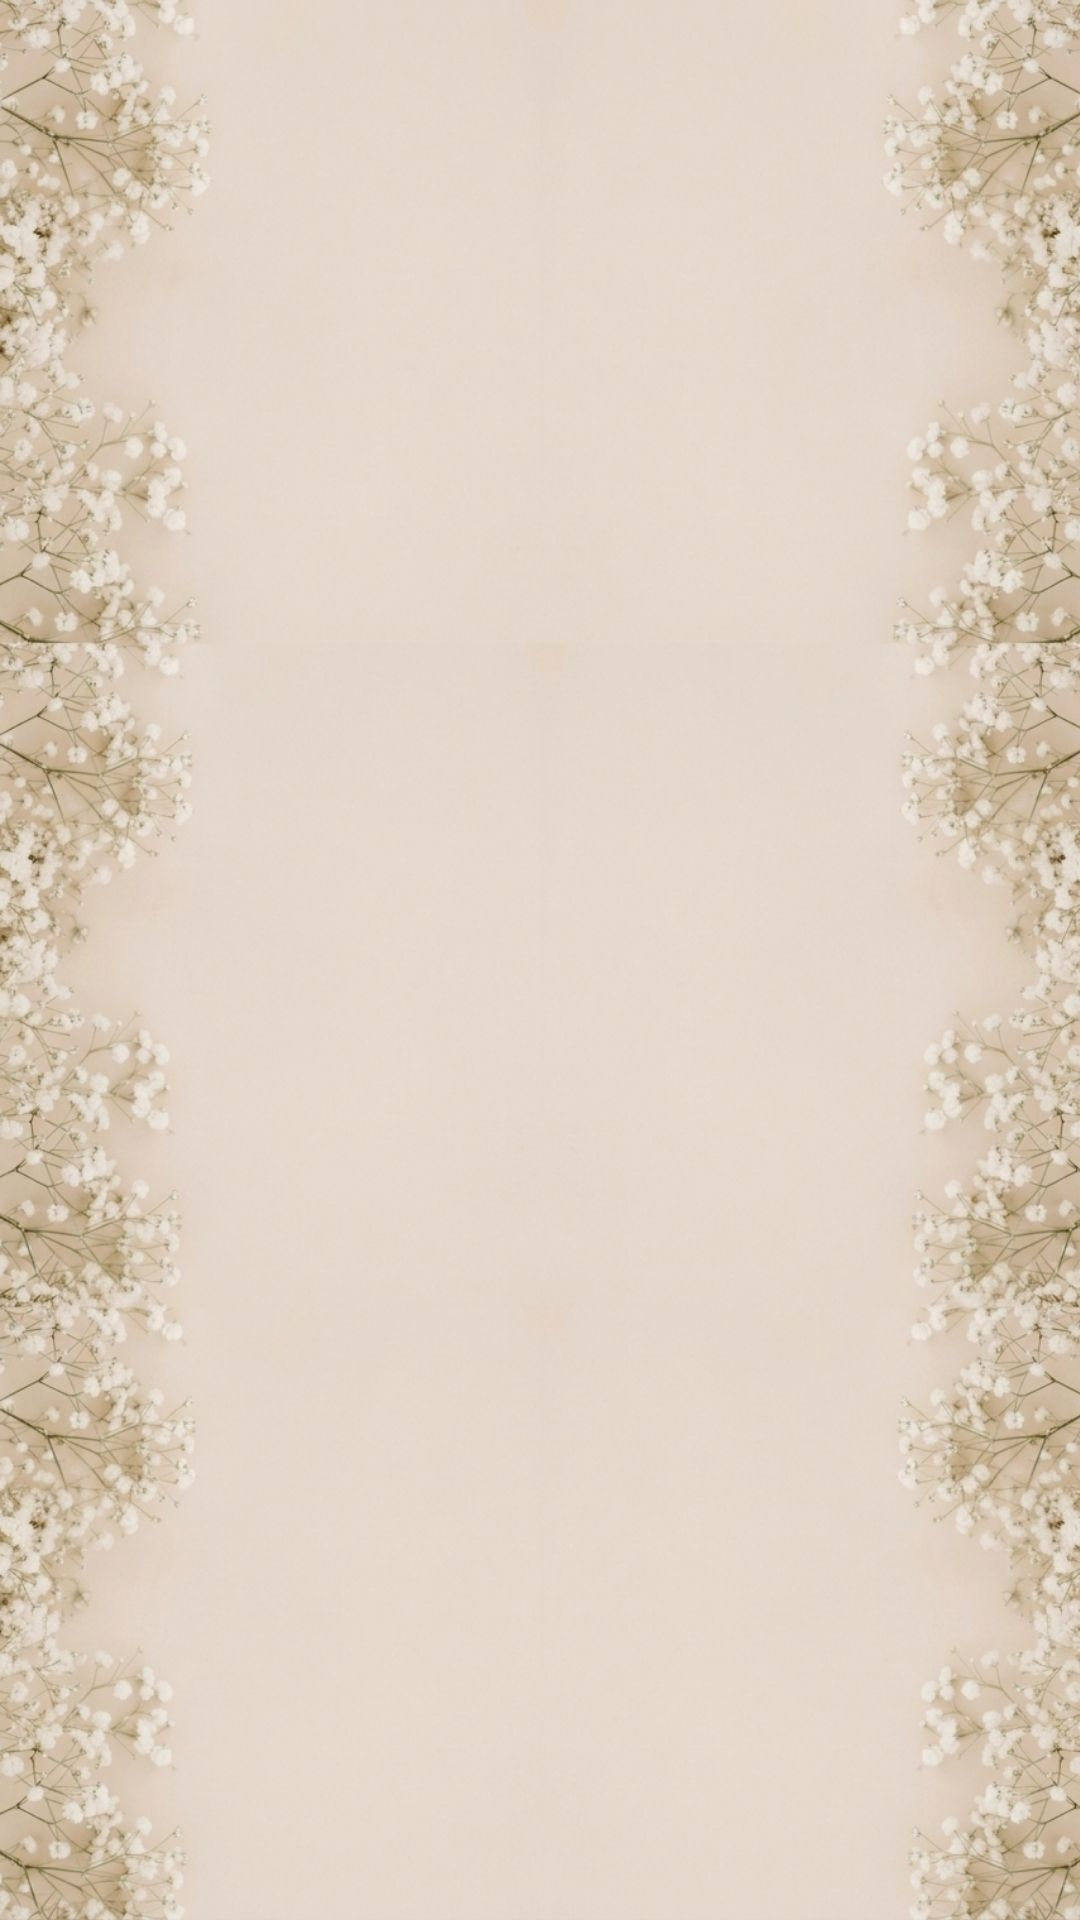
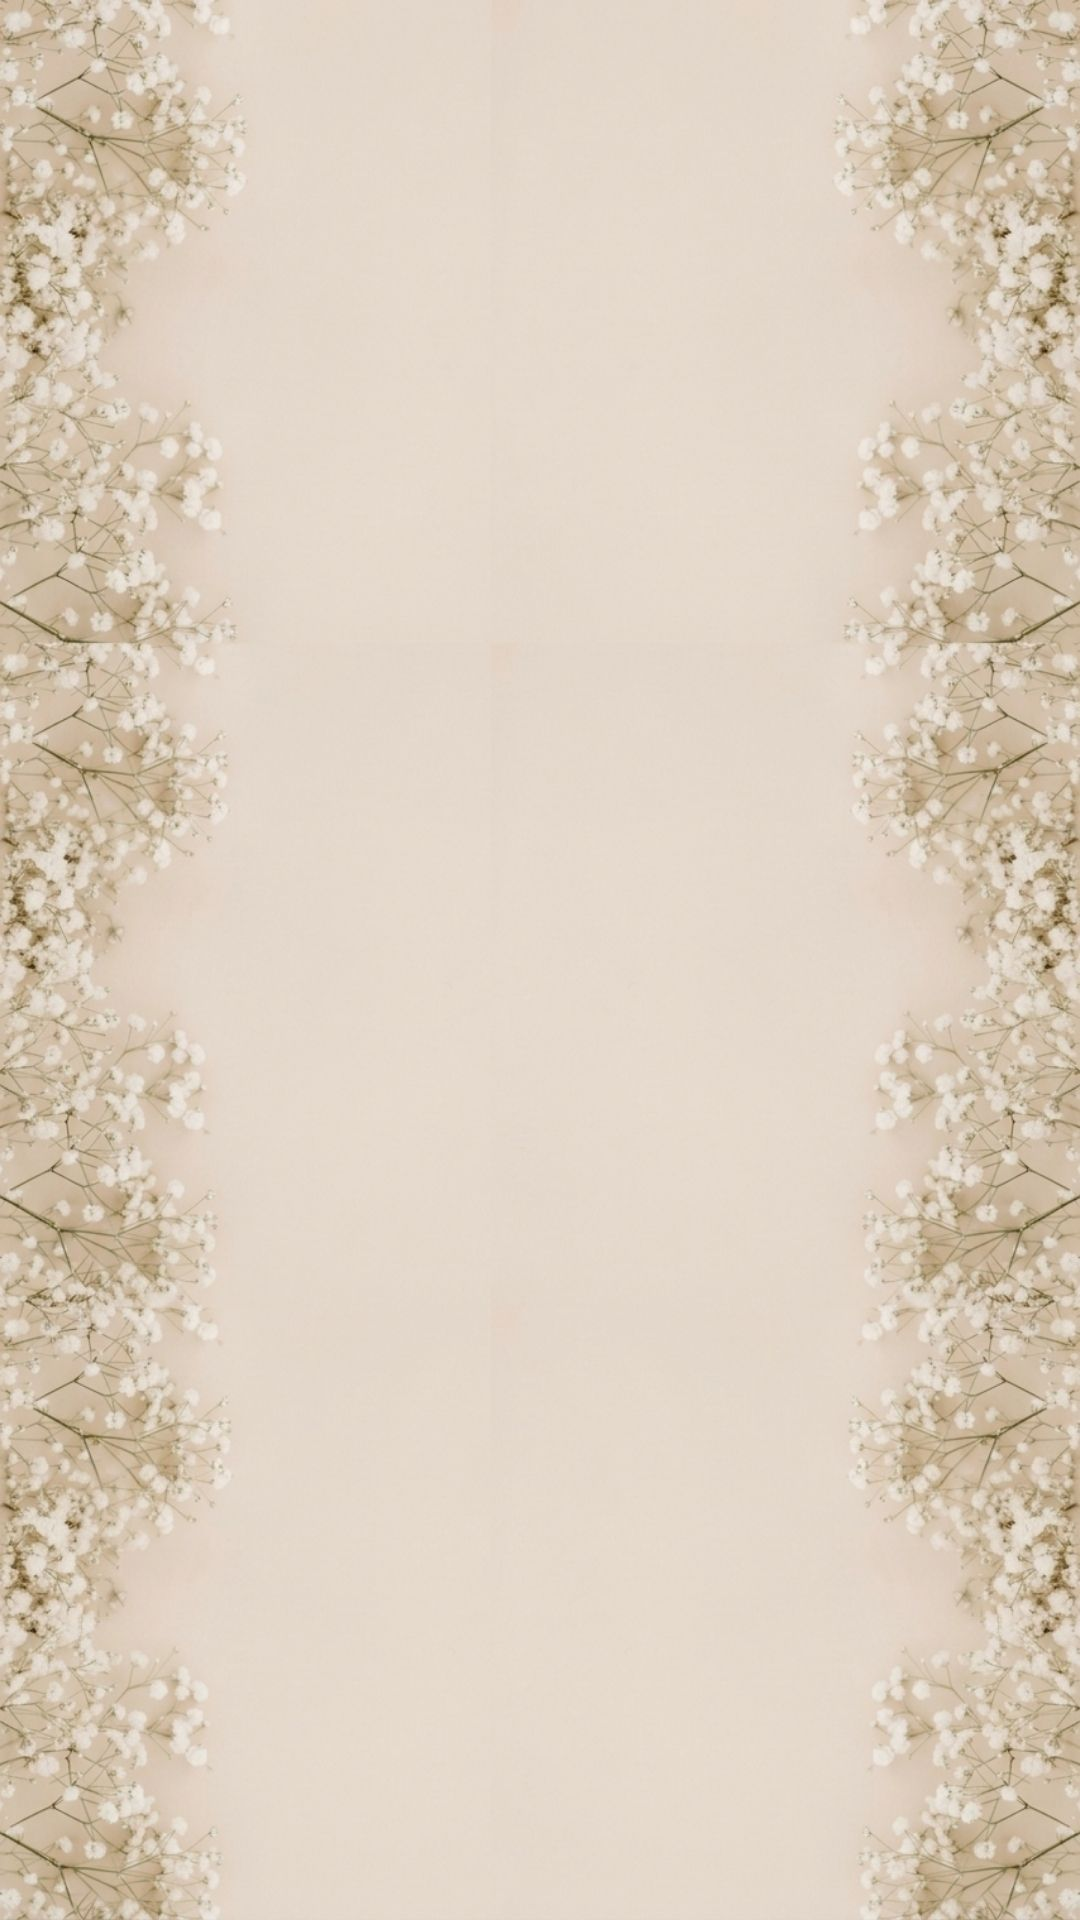
l

Changed region(s): [[0.7944, 0.0, 1.0, 1.0], [0.0, 0.0, 0.2139, 1.0]]

diff --git a/src/styles/card.css b/src/styles/card.css
@@ -13927,20 +13927,21 @@
 }
 
 .cyrillic-svg-silk-card .csvg-fixed-bg {
-  position: absolute;
+  position: fixed;
   inset: 0;
   z-index: 0;
 
-  width: 100%;
-  min-height: 100%;
-  height: auto;
+  width: 100vw;
+  height: 100dvh;
 
   background-image: var(--csvg-fixed-bg);
-  background-size: 100% auto;
+  background-size: cover;
   background-position: center top;
-  background-repeat: repeat-y;
+  background-repeat: no-repeat;
 
   pointer-events: none;
+  transform: translateZ(0);
+  backface-visibility: hidden;
 }
 .cyrillic-svg-silk-card {
   position: relative;
@@ -14309,7 +14310,7 @@
   font-weight: 600;
   letter-spacing: 1px;
 
-  color: rgba(127, 79, 42, 0.28);
+  color: rgba(127, 79, 42, 0.58);
 }
 
 /* naslov događaja */

diff --git a/src/data/demoWedding.js b/src/data/demoWedding.js
@@ -4539,7 +4539,7 @@ musicSrc: "/music/jovana-dusan-1.mp3",
     dateText: "8. новембар 2026.",
     dateISO: "2026-11-08T12:00:00+01:00",
 
-    rsvpDeadline: "20. октобар 2026.",
+    rsvpDeadline: "20. октобара 2026.",
     rsvpDeadlineISO: "2026-10-20",
 
     fixedBackgroundImage: "/images/cyrillic-svg-silk/paper-bg.jpg",
